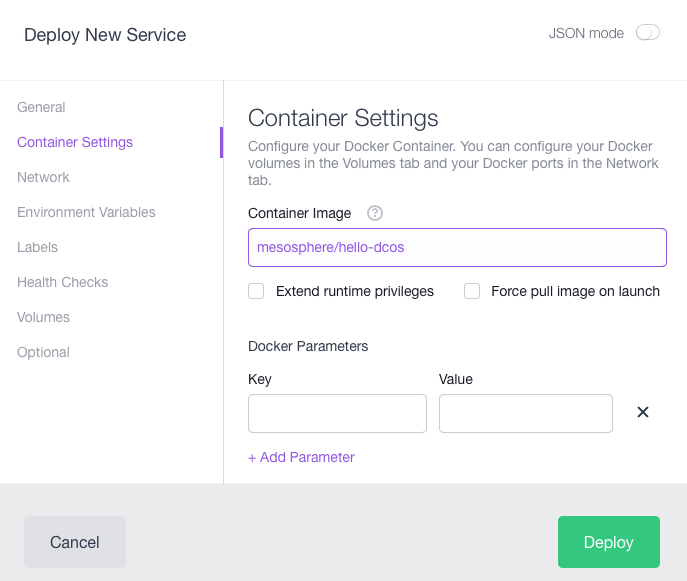
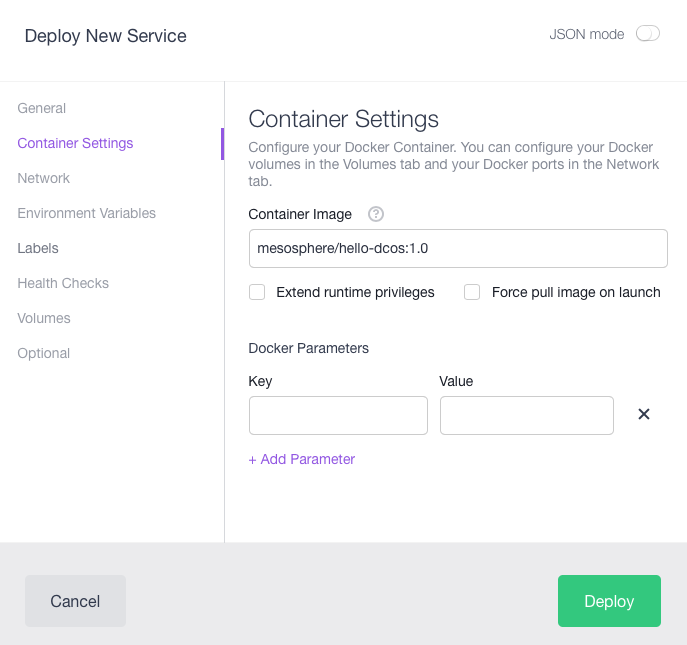
touch ups to new tutorials

diff --git a/1.9/usage/tutorials/create-service.md b/1.9/usage/tutorials/create-service.md
@@ -6,12 +6,12 @@ menu_order: 4.5
 
 #  DC/OS Services
 
-You can run DC/OS services you create or install a package from the [Universe package repository](/docs/1.8/usage/webinterface/#-a-name-universe-a-universe). Both services you create and those you install from Universe appear on the **Services** tab of the DC/OS web interface when they are running.
+You can run DC/OS services you create or install a package from the [Universe package repository](/docs/1.9/usage/webinterface/#-a-name-universe-a-universe). Both services you create and those you install from Universe appear on the **Services** tab of the DC/OS web interface when they are running.
 
-Services you create yourself are administered by Marathon and can be configured and run [from the DC/OS CLI](/docs/1.8/usage/cli/command-reference/) with `dcos marathon` subcommands (eg `dcos marathon app add myapp.json`) or via the DC/OS web interface.
+Services you create yourself are administered by Marathon and can be configured and run [from the DC/OS CLI](/docs/1.9/usage/cli/command-reference/) with `dcos marathon` subcommands (eg `dcos marathon app add myapp.json`) or via the DC/OS web interface.
 
 # Universe Package Repository
-Packaged DC/OS services created by Mesosphere or the community, like Spark or Kafka, appear on the **Universe** tab of the DC/OS web interface, or you can search for a package from [the DC/OS CLI](/docs/1.8/usage/cli/command-reference/). You can configure and run Universe services from the DC/OS web interface or via the DC/OS CLI with the `dcos package install <package-name>` command. Visit the [Managing Services](/docs/1.8/usage/managing-services/) section to learn more about installing, configuring, and uninstalling services in Universe.
+Packaged DC/OS services created by Mesosphere or the community, like Spark or Kafka, appear on the **Universe** tab of the DC/OS web interface, or you can search for a package from [the DC/OS CLI](/docs/1.9/usage/cli/command-reference/). You can configure and run Universe services from the DC/OS web interface or via the DC/OS CLI with the `dcos package install <package-name>` command. Visit the [Managing Services](/docs/1.9/usage/managing-services/) section to learn more about installing, configuring, and uninstalling services in Universe.
 
 # Create and Run Your Own DC/OS Service
 In this tutorial, we'll go over creating a simple one-command service and a containerized service using both the DC/OS web interface and the CLI.
@@ -26,11 +26,11 @@ In this tutorial, we'll go over creating a simple one-command service and a cont
 1. Enter a name for your service in the **ID** field. In the **Command** field, enter `sleep 10`.
 1. Click **Deploy**.
 
-![Create a service in the DC/OS UI](/docs/1.8/usage/tutorials/img/deploy-svs-ui.png)
+![Create a service in the DC/OS UI](/docs/1.9/usage/tutorials/img/deploy-svs-ui.png)
 
 1. That's it! Click the name of your service in the **Services** view to see it running and monitor health.
 
-![Running service in the DC/OS UI](/docs/1.8/usage/tutorials/img/svc-running-ui.png)
+![Running service in the DC/OS UI](/docs/1.9/usage/tutorials/img/svc-running-ui.png)
 
 ## Create and Run a Simple Service from the DC/OS CLI
 
@@ -75,20 +75,22 @@ In this tutorial, we'll go over creating a simple one-command service and a cont
 
 ## Create and Run a Containerized Service from the DC/OS Web Interface
 
+1. Go to the `hello-dcos` page of the [Mesosphere Docker Hub repository](https://hub.docker.com/r/mesosphere/hello-dcos/tags/) and note down the latest image tag.
 1. Click the **Services** tab of the DC/OS web interface, then click the **Deploy Service**.
 1. Enter a name for your service in the **ID** field.
-1. Click the **Container Settings** tab and enter the following in the **Container Image** field: `mesosphere/hello-dcos`.
+1. Click the **Container Settings** tab and enter the following in the **Container Image** field: `mesosphere/hello-dcos:<image-tag>`. Replace `<image-tag>` with the tag you copied in step 1.
 
-![Containerized service in the DC/OS UI](/docs/1.8/usage/tutorials/img/svc-running-ui.png)
+![Containerized service in the DC/OS UI](/docs/1.9/usage/tutorials/img/deploy-container-ui.png)
 
 1. Click **Deploy**.
-1. In the **Services** tab, click the name of your service, then choose on of the task instances. Click **Logs**, then toggle to the **Output (stdout)** view to see the output of service.
+1. In the **Services** tab, click the name of your service, then choose on of the task instances. Click **Logs**, then toggle to the **Output (stdout)** view to see the output of the service.
 
-![Running containerized service in the DC/OS UI](/docs/1.8/usage/tutorials/img/container-running-ui.png)
+![Running containerized service in the DC/OS UI](/docs/1.9/usage/tutorials/img/container-running-ui.png)
 
 ## Create and Run a Containerized Service from the DC/OS CLI
 
-1. Create a JSON file called `hello-dcos-cli.json` with the following contents:
+1. Go to the `hello-dcos` page of the [Mesosphere Docker Hub repository](https://hub.docker.com/r/mesosphere/hello-dcos/tags/) and note down the latest image tag.
+1. Create a JSON file called `hello-dcos-cli.json` with the following contents. Replace `<image-tag>` in the `docker:image` field with the tag you copied in step 1.
     ```
     {
       "id": "/hello-dcos-cli",
@@ -102,7 +104,7 @@ In this tutorial, we'll go over creating a simple one-command service and a cont
       "maxLaunchDelaySeconds": 3600,
       "container": {
         "docker": {
-          "image": "mhausenblas/hello-dcos",
+          "image": "mesosphere/hello-dcos:<image-tag>",
           "forcePullImage": false,
           "privileged": false,
           "network": "HOST"
@@ -121,7 +123,7 @@ In this tutorial, we'll go over creating a simple one-command service and a cont
       "requirePorts": false
     }
     ```
-1. Run the service with the following commandt.
+1. Run the service with the following command.
     ```bash
     dcos marathon app hello-dcos-cli.json
     ```
@@ -129,7 +131,7 @@ In this tutorial, we'll go over creating a simple one-command service and a cont
     ```bash
     $ dcos marathon app list
     ```
-1. In the **Services** tab of the DC/OS web interface, click the name of your service, then choose on of the task instances. Click **Logs**, then toggle to the **Output (stdout)** view to see the output of service.
+1. In the **Services** tab of the DC/OS web interface, click the name of your service, then choose on of the task instances. Click **Logs**, then toggle to the **Output (stdout)** view to see the output of the service.
 
 # Scale Your Service
 

diff --git a/1.8/usage/tutorials/create-service.md b/1.8/usage/tutorials/create-service.md
@@ -75,20 +75,22 @@ In this tutorial, we'll go over creating a simple one-command service and a cont
 
 ## Create and Run a Containerized Service from the DC/OS Web Interface
 
+1. Go to the `hello-dcos` page of the [Mesosphere Docker Hub repository](https://hub.docker.com/r/mesosphere/hello-dcos/tags/) and note down the latest image tag.
 1. Click the **Services** tab of the DC/OS web interface, then click the **Deploy Service**.
 1. Enter a name for your service in the **ID** field.
-1. Click the **Container Settings** tab and enter the following in the **Container Image** field: `mesosphere/hello-dcos`.
+1. Click the **Container Settings** tab and enter the following in the **Container Image** field: `mesosphere/hello-dcos:<image-tag>`. Replace `<image-tag>` with the tag you copied in step 1.
 
-![Containerized service in the DC/OS UI](/docs/1.8/usage/tutorials/img/svc-running-ui.png)
+![Containerized service in the DC/OS UI](/docs/1.8/usage/tutorials/img/deploy-container-ui.png)
 
 1. Click **Deploy**.
-1. In the **Services** tab, click the name of your service, then choose on of the task instances. Click **Logs**, then toggle to the **Output (stdout)** view to see the output of service.
+1. In the **Services** tab, click the name of your service, then choose on of the task instances. Click **Logs**, then toggle to the **Output (stdout)** view to see the output of the service.
 
 ![Running containerized service in the DC/OS UI](/docs/1.8/usage/tutorials/img/container-running-ui.png)
 
 ## Create and Run a Containerized Service from the DC/OS CLI
 
-1. Create a JSON file called `hello-dcos-cli.json` with the following contents:
+1. Go to the `hello-dcos` page of the [Mesosphere Docker Hub repository](https://hub.docker.com/r/mesosphere/hello-dcos/tags/) and note down the latest image tag.
+1. Create a JSON file called `hello-dcos-cli.json` with the following contents. Replace `<image-tag>` in the `docker:image` field with the tag you copied in step 1.
     ```
     {
       "id": "/hello-dcos-cli",
@@ -102,7 +104,7 @@ In this tutorial, we'll go over creating a simple one-command service and a cont
       "maxLaunchDelaySeconds": 3600,
       "container": {
         "docker": {
-          "image": "mhausenblas/hello-dcos",
+          "image": "mesosphere/hello-dcos:<image-tag>",
           "forcePullImage": false,
           "privileged": false,
           "network": "HOST"
@@ -121,7 +123,7 @@ In this tutorial, we'll go over creating a simple one-command service and a cont
       "requirePorts": false
     }
     ```
-1. Run the service with the following commandt.
+1. Run the service with the following command.
     ```bash
     dcos marathon app hello-dcos-cli.json
     ```
@@ -129,7 +131,7 @@ In this tutorial, we'll go over creating a simple one-command service and a cont
     ```bash
     $ dcos marathon app list
     ```
-1. In the **Services** tab of the DC/OS web interface, click the name of your service, then choose on of the task instances. Click **Logs**, then toggle to the **Output (stdout)** view to see the output of service.
+1. In the **Services** tab of the DC/OS web interface, click the name of your service, then choose on of the task instances. Click **Logs**, then toggle to the **Output (stdout)** view to see the output of the service.
 
 # Scale Your Service
 
